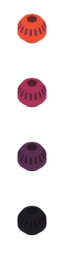
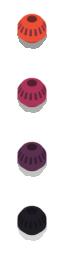
v0.2.963

diff --git a/gamestream_flutter/lib/modules/isometric/spawn.dart b/gamestream_flutter/lib/modules/isometric/spawn.dart
@@ -17,22 +17,6 @@ import 'enums.dart';
 import 'state.dart';
 
 
-const Map<ParticleType, double> _particleTypeSize = {
-  ParticleType.Zombie_Head: 64.0,
-  ParticleType.Blood: 8.0,
-  ParticleType.Human_Head: 64.0,
-  ParticleType.Myst: 64.0,
-  ParticleType.Smoke: 32.0,
-  ParticleType.Shrapnel: 32.0,
-  ParticleType.Shell: 32.0,
-  ParticleType.Organ: 64,
-  ParticleType.FireYellow: 32.0,
-  ParticleType.Arm: 64,
-  ParticleType.Leg: 64,
-  ParticleType.Pixel: 8,
-  ParticleType.Orb_Ruby: 24.0,
-};
-
 class IsometricSpawn {
 
   final IsometricState state;
@@ -75,8 +59,24 @@ class IsometricSpawn {
     bool castShadow = false,
   }) {
     assert(duration > 0);
+    const mapTypeToSize = <ParticleType, double> {
+      ParticleType.Zombie_Head: 64.0,
+      ParticleType.Blood: 8.0,
+      ParticleType.Human_Head: 64.0,
+      ParticleType.Myst: 64.0,
+      ParticleType.Smoke: 32.0,
+      ParticleType.Shrapnel: 32.0,
+      ParticleType.Shell: 32.0,
+      ParticleType.Organ: 64,
+      ParticleType.FireYellow: 32.0,
+      ParticleType.Arm: 64,
+      ParticleType.Leg: 64,
+      ParticleType.Pixel: 8,
+      ParticleType.Orb_Ruby: 24.0,
+      ParticleType.Pot_Shard: 16.0,
+    };
     final particle = getAvailableParticle();
-    particle.size = _particleTypeSize[type] ?? 0;
+    particle.size = mapTypeToSize[type] ?? 0;
     particle.type = type;
     particle.hasShadow = castShadow;
     particle.x = x;
@@ -302,7 +302,7 @@ class IsometricSpawn {
         duration: randomInt(150, 200),
         scale: randomBetween(0.6, 1.25),
         scaleV: 0,
-        rotationV: giveOrTake(10),
+        rotation: randomAngle(),
         castShadow: true,
     );
   }

diff --git a/bleed-server/bin/games/Skirmish.dart b/bleed-server/bin/games/Skirmish.dart
@@ -67,6 +67,26 @@ class GameSkirmish extends Game {
            radius: 14,
          )
      );
+
+     dynamicObjects.add(
+         DynamicObject(
+           type: DynamicObjectType.Pot,
+           x: 0,
+           y: 200,
+           health: 10,
+           radius: 14,
+         )
+     );
+
+     dynamicObjects.add(
+         DynamicObject(
+           type: DynamicObjectType.Pot,
+           x: 0,
+           y: 250,
+           health: 10,
+           radius: 14,
+         )
+     );
   }
 
   @override

diff --git a/gamestream_flutter/lib/render/mapParticleToDst.dart b/gamestream_flutter/lib/render/mapParticleToDst.dart
@@ -18,7 +18,7 @@ void mapParticleToDst(Particle particle){
 
   return engine.mapDst(
     scale: renderScale,
-    rotation: zero,
+    rotation: particle.rotation,
     x: particle.x,
     y: particle.y,
     anchorX: sizeHalf,

diff --git a/gamestream_flutter/lib/render/mapParticleToSrc.dart b/gamestream_flutter/lib/render/mapParticleToSrc.dart
@@ -105,7 +105,7 @@ void mapParticleToSrc(Particle particle){
 
     case ParticleType.Pot_Shard:
       engine.mapSrcSquare(
-          x: 6090,
+          x: 6097,
           y: shade * 64,
           size: 16,
       );

diff --git a/bleed-common/lib/version.dart b/bleed-common/lib/version.dart
@@ -1,1 +1,1 @@
-const version = 'v0.2.962';
+const version = 'v0.2.963';

diff --git a/bleed-server/bin/common/version.dart b/bleed-server/bin/common/version.dart
@@ -1,1 +1,1 @@
-const version = 'v0.2.962';
+const version = 'v0.2.963';

diff --git a/gamestream_flutter/README.md b/gamestream_flutter/README.md
@@ -94,8 +94,10 @@
     [ ] Chest
     [ ] Pot
 [ ] Pot Struck Audio
-[ ] Pot Destroyed Animation    
 [ ] Shades    
+[ ] Pot Shadow    
+[ ] FIX Highlight Pot at mouse
+[x] Pot Destroyed Animation    
 [x] Pot Destroyed Audio
 [x] Pot Shades
 [x] Loading Text Animation    
